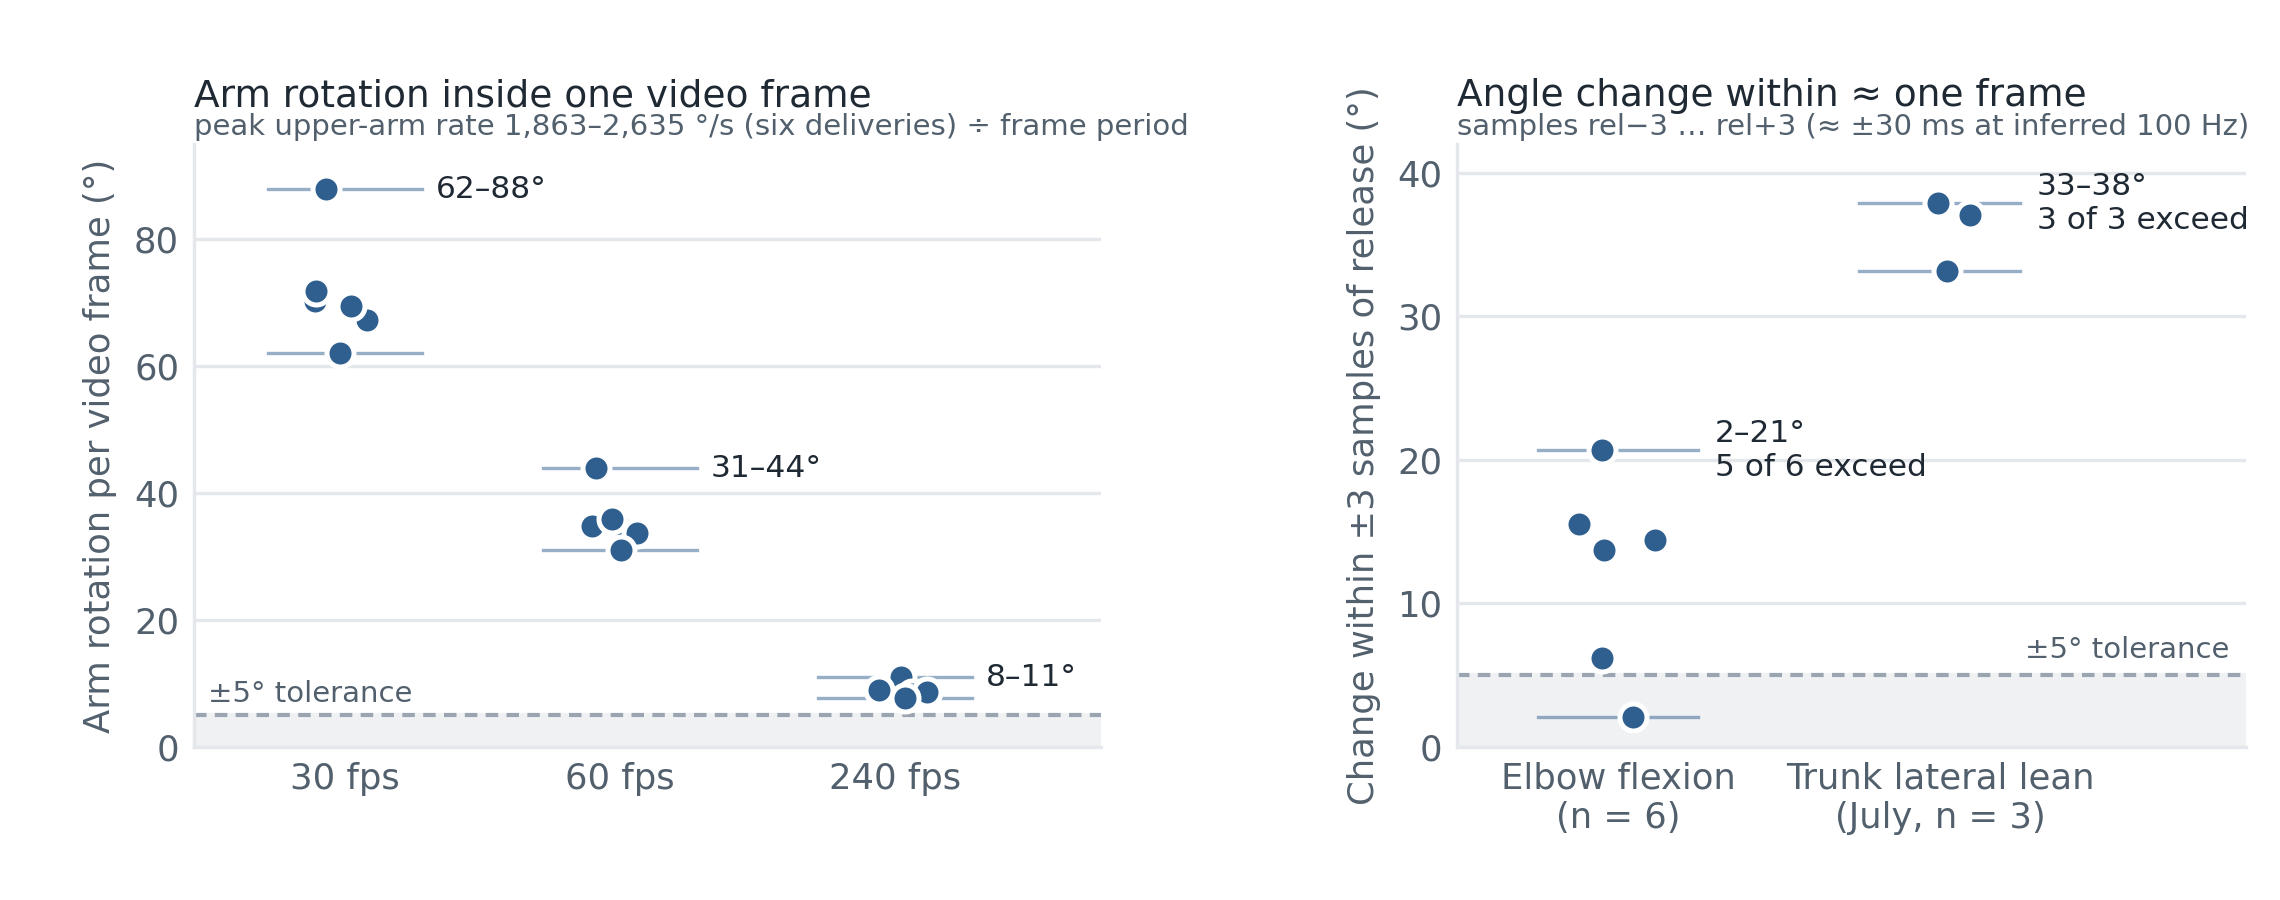
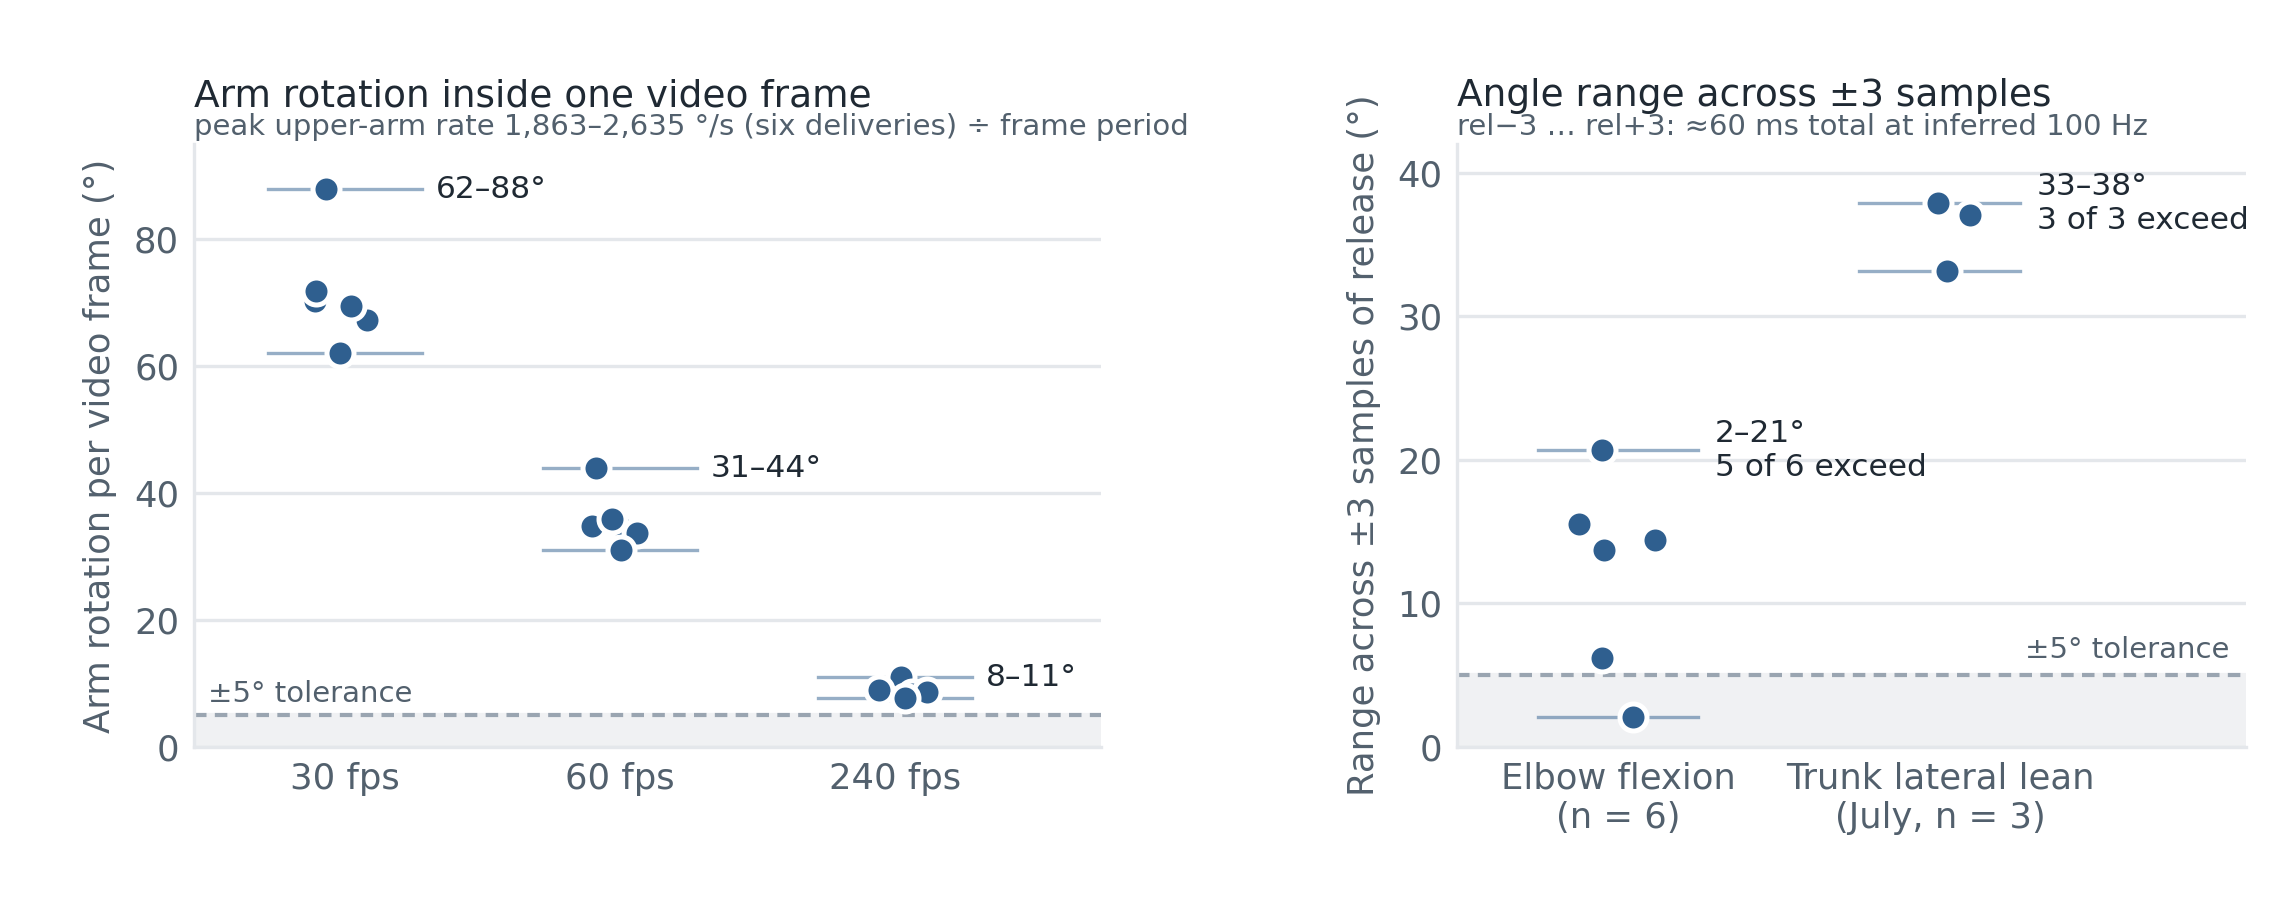
Figure 1: right panel titled 'Angle range across ±3 samples'
Claude-Session: https://claude.ai/code/session_01XbgoF5guVUMW4v38poxhcb

Changed region(s): [[0.5917, 0.0933, 0.9965, 0.56], [0.5917, 0.6222, 0.6228, 0.9022]]

diff --git a/analysis/figure1.py b/analysis/figure1.py
@@ -80,9 +80,9 @@ ax.set_xticks([0, 1]); ax.set_xticklabels([g[0] for g in groups])
 ax.set_xlim(-0.5, 1.95)
 ax.set_ylim(0, 42)
 ax.set_yticks([0, 10, 20, 30, 40])
-ax.set_ylabel("Change within ±3 samples of release (°)")
-ax.set_title("Angle change within ≈ one frame", loc="left", fontsize=9, pad=9)
-ax.text(0, 1.005, "samples rel−3 … rel+3 (≈ ±30 ms at inferred 100 Hz)", transform=ax.transAxes,
+ax.set_ylabel("Range across ±3 samples of release (°)")
+ax.set_title("Angle range across ±3 samples", loc="left", fontsize=9, pad=9)
+ax.text(0, 1.005, "rel−3 … rel+3: ≈60 ms total at inferred 100 Hz", transform=ax.transAxes,
         color=INK2, fontsize=7, va="bottom")
 ax.yaxis.grid(True, color=GRID, lw=0.8); ax.set_axisbelow(True)
 ax.tick_params(length=0)
